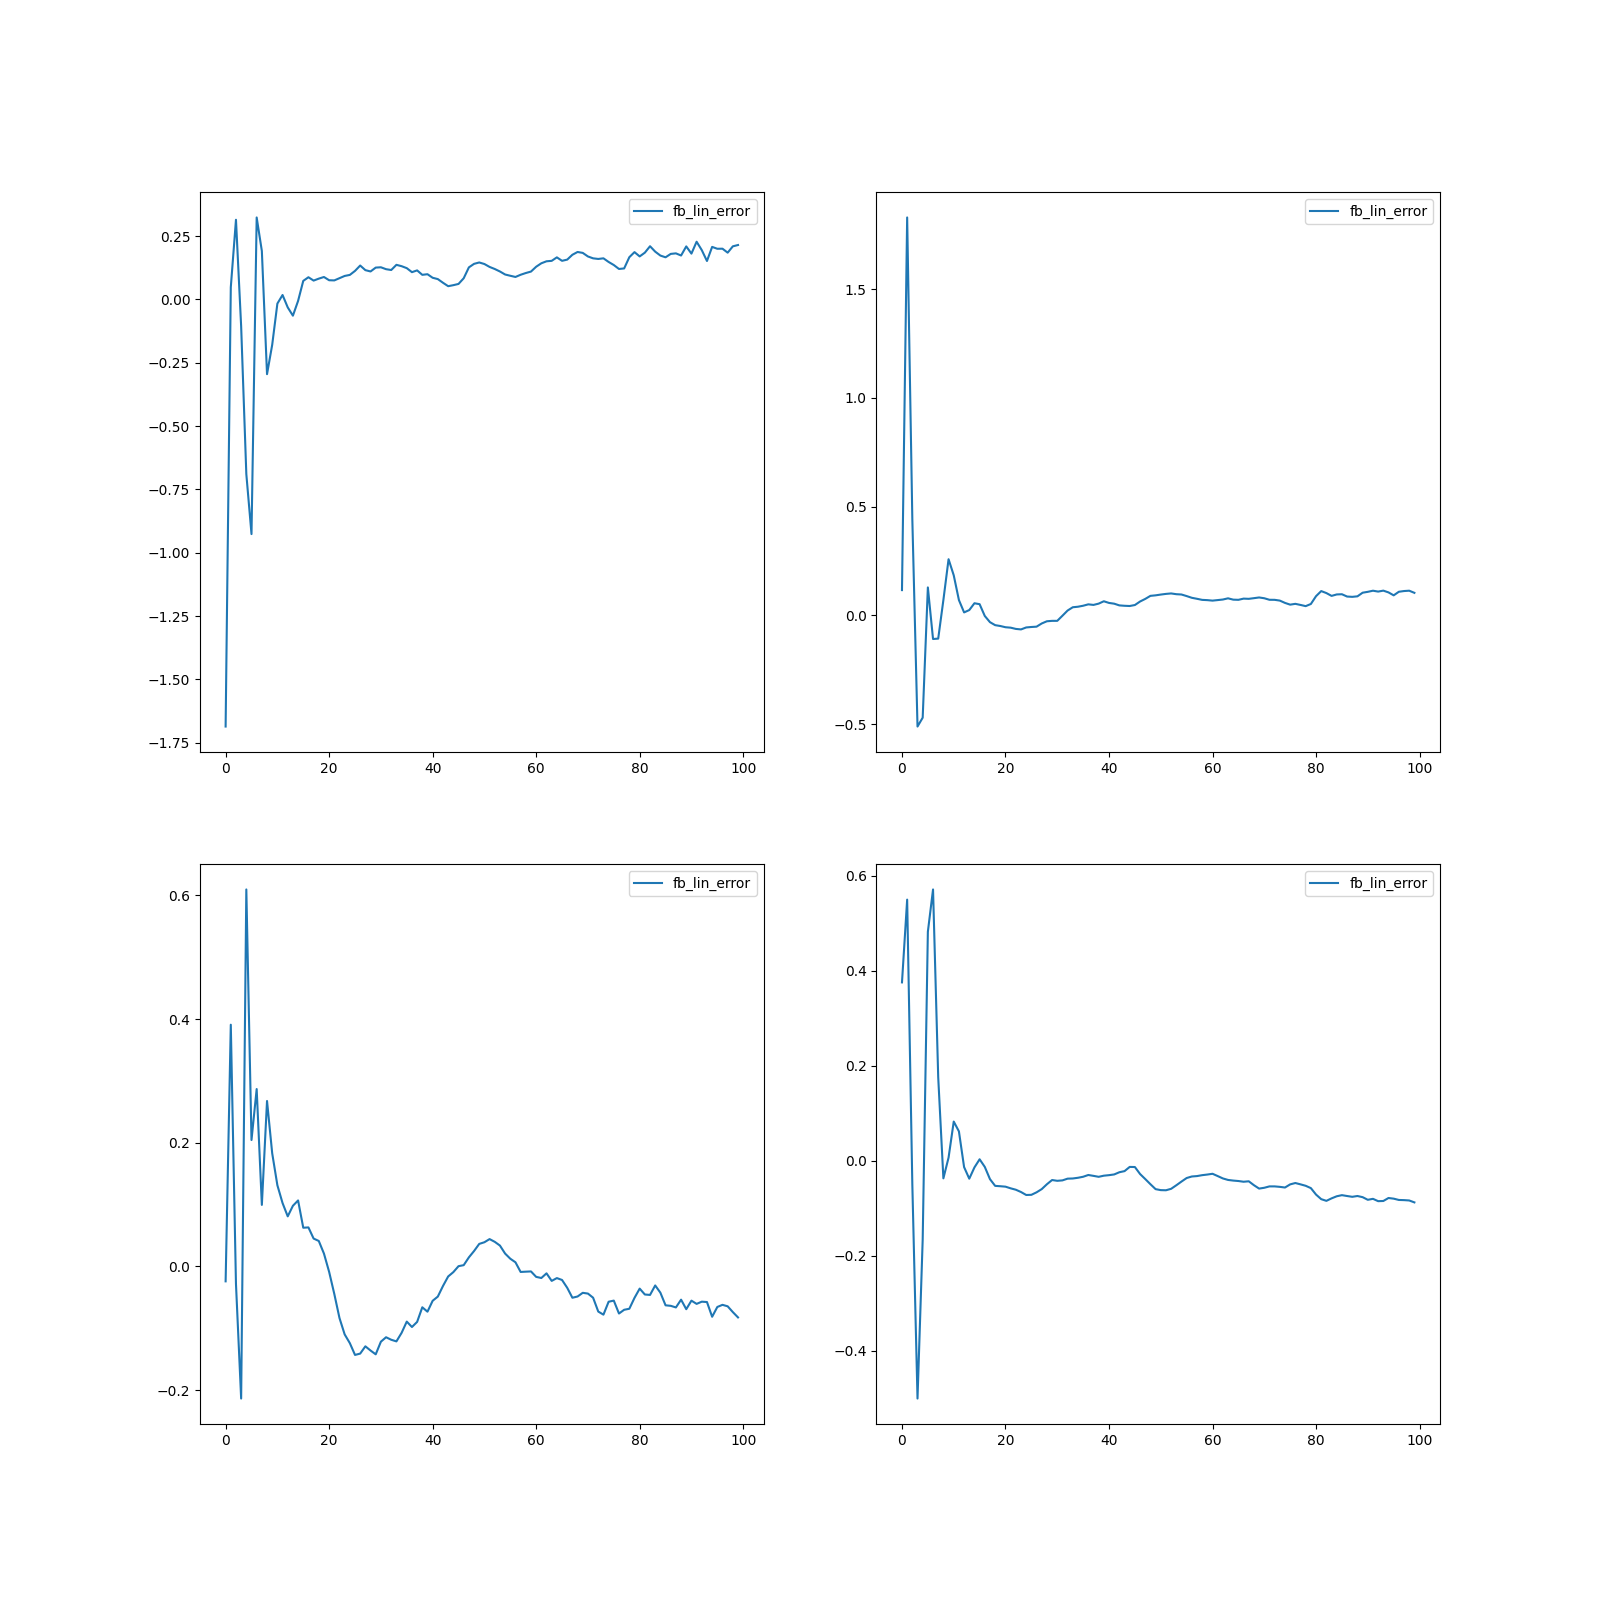
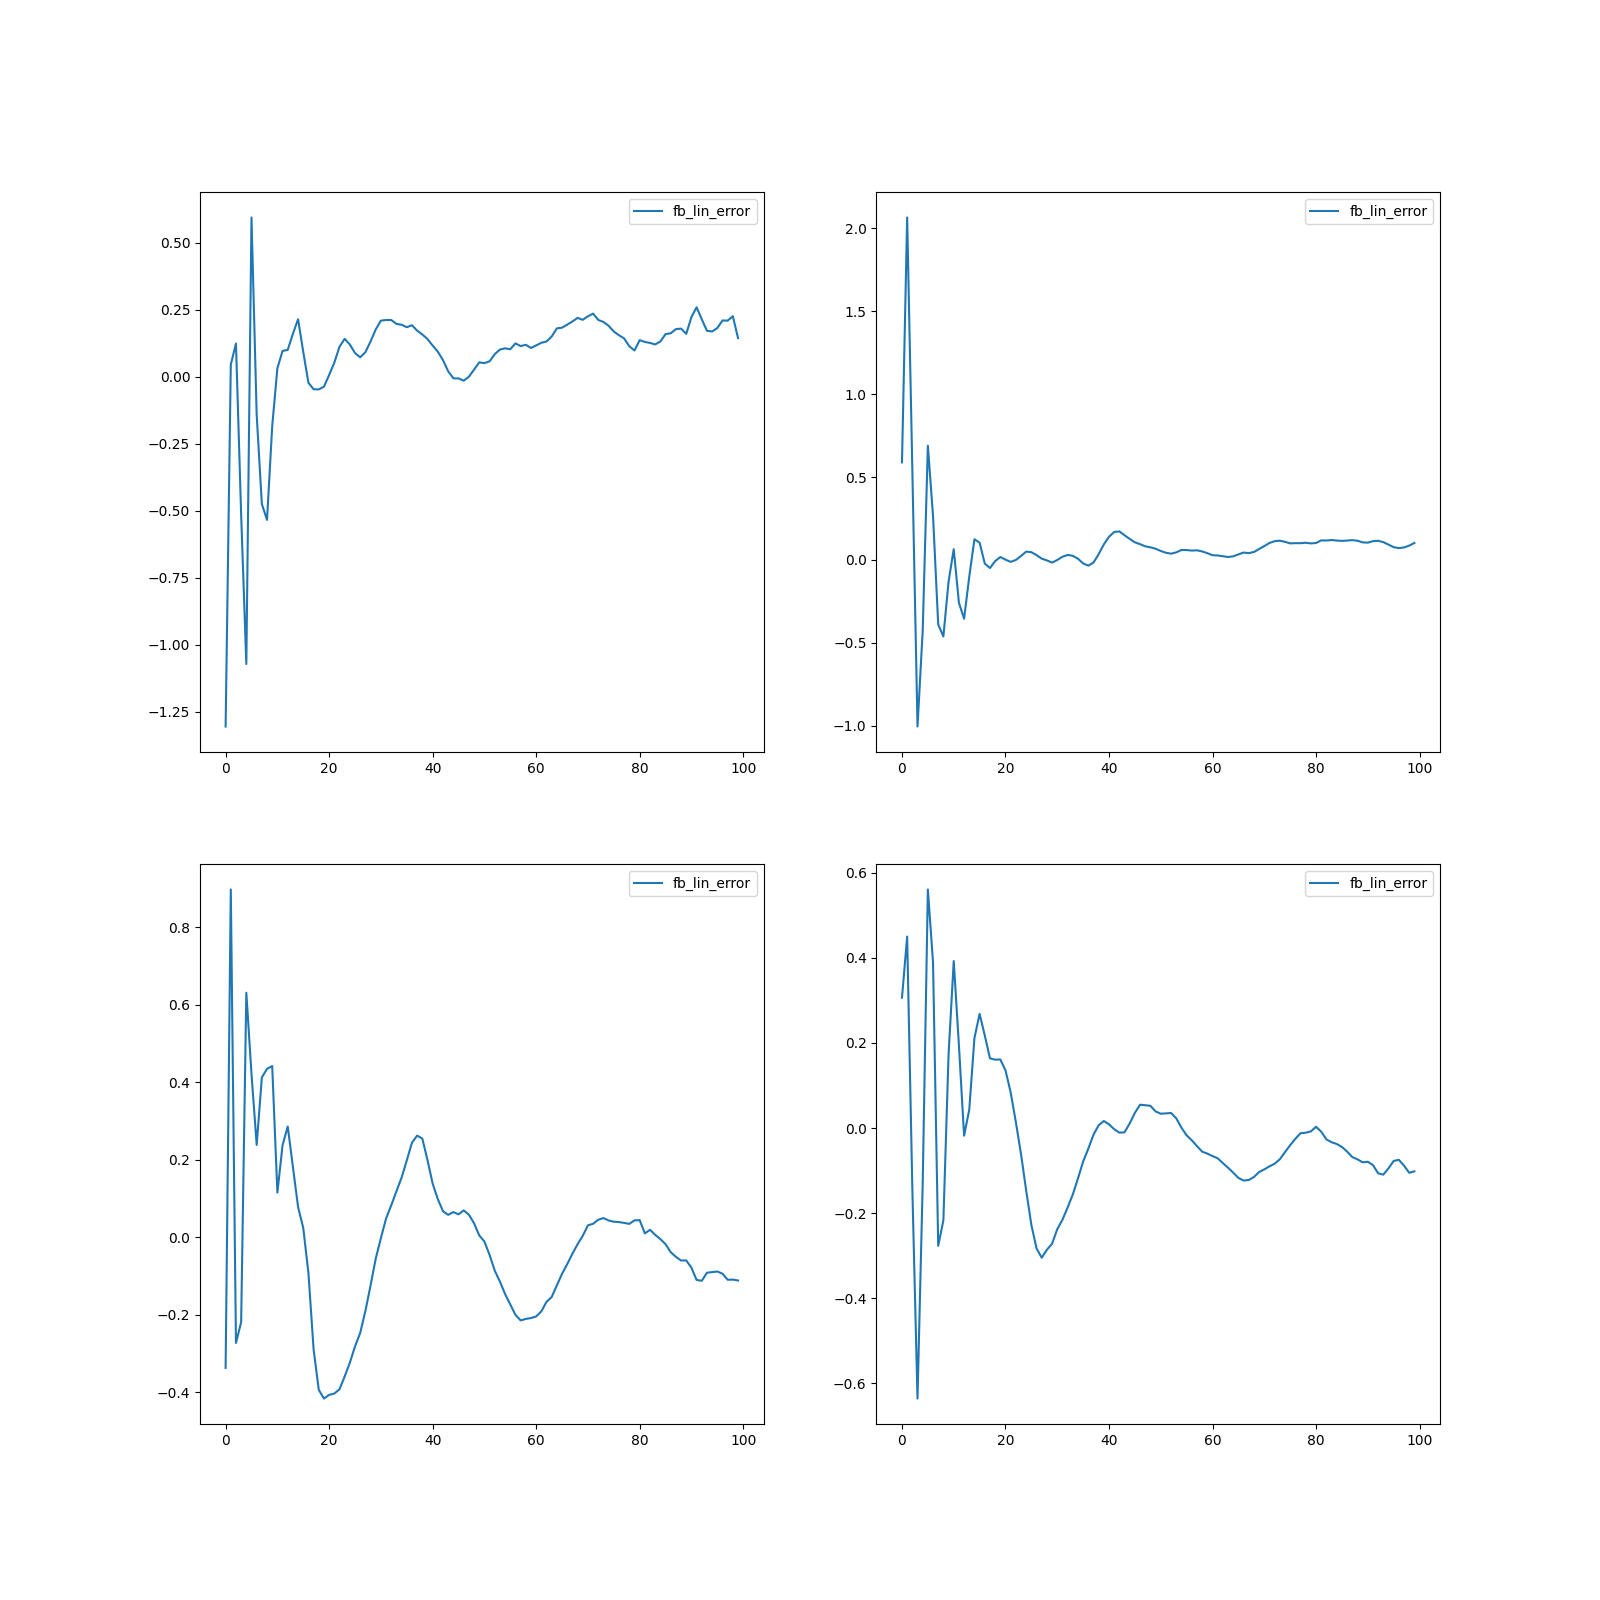
code tests

diff --git a/rl/train_only_rand_traj.py b/rl/train_only_rand_traj.py
@@ -34,8 +34,8 @@ from learning_table_tennis_from_scratch.rewards import JsonReward
 from basic_env.plotting import plot_values
 
 NUM_EVALS = 1
-TRAIN_MODEL = True
-# LOAD_MODEL = False
+TRAIN_MODEL = False
+LOAD_MODEL = False
 EPOCHS= 10 #100
 num_ep_training = 1 #40
 SEED = np.random.randint(10)
@@ -100,6 +100,7 @@ def eval_model(env, model, render = False, deterministic=True, gamma=0.0, num_ep
             
             # print(action)
             obs, r, done, logs = env.step(action)
+            r = env.get_original_reward()
             rewards.append(r)
             logs_list1.append(logs)
             # if done:
@@ -113,7 +114,7 @@ def eval_model(env, model, render = False, deterministic=True, gamma=0.0, num_ep
         all_rewards.append(sum_ep_reward)
 
     all_rewards = np.array(all_rewards)
-    return np.mean(all_rewards), np.std(all_rewards), all_rewards, logs_list2
+    return np.mean(all_rewards), np.std(all_rewards), all_rewards, logs_list2, rewards
 
 
 def unpack_logs(log_list):
@@ -244,24 +245,25 @@ model = PPO('MlpPolicy', env, verbose=0, gamma=GAMMA,
 #     eval_env.training=False
 #     eval_env.norm_reward = False
     
-# if LOAD_MODEL:
-#     #loads normalization constants
-#     # env = VecNormalize.load(stats_path, env) #load stats
-#     # env.training=False
-#     # env.norm_reward = False
+if LOAD_MODEL:
+    #loads normalization constants
+    env = VecNormalize.load(stats_path, env) #load stats
+    env.training=False
+    env.norm_reward = False
 
-#     # Load the agent
-#     model = PPO.load(save_dir + "ppo_panda_tracking_random", env=env, device=DEVICE)
+    # Load the agent
+    model = PPO.load(save_dir + "ppo_pam_single_traj", env=env, device=DEVICE)
 
 
 # %% 
 # Random Agent, before training
 print("Random Agent")#eval with random policy
-# avg_eval_rew, std_eval_rew = evaluate_policy(model, env, n_eval_episodes = NUM_EVALS, deterministic= True)
+
 # print("Average reward with random policy = ",avg_eval_rew)   
 
 ## Random agent manual eval
-avg_eval_rew, std_eval_rew, all_rewards, logs_list = eval_model(env, model, render=False, gamma=GAMMA, num_episodes = NUM_EVALS)
+avg_eval_rew, std_eval_rew, all_rewards, logs_list,rew = eval_model(env, model, render=False, gamma=GAMMA, num_episodes = NUM_EVALS)
+avg_eval_rew2, std_eval_rew2 = evaluate_policy(model, env, n_eval_episodes = NUM_EVALS, deterministic= True)
 
 pos_error =[]
 norm_ff_arr = []
@@ -282,7 +284,7 @@ for ev in range(NUM_EVALS):
     acc = np.diff(logs['joint_vel'],axis=0)/DT #i = i+1 - i             
     all_fb_lin_error = acc - logs['command'][1:]
     fb_lin_error_mean = np.sqrt(np.mean(all_fb_lin_error**2, axis=0))
-    fb_lin_mean_error = fb_lin_error_mean.mean()
+    fb_lin_mean_error = np.mean(np.linalg.norm(all_fb_lin_error, axis=0))
     fb_lin_arr.append(fb_lin_mean_error)
     print(f"FB Linearization error joint-wise : ", fb_lin_error_mean)
     print(f"FB RMSE1 (mean of jointwise FB error) = {fb_lin_error_mean.mean():.6f}")
@@ -301,10 +303,16 @@ pos_tracking_err = np.mean(pos_error)
 fb_lin_err = np.mean(fb_lin_arr)
 
 print("Rand "," . Mean Episode reward = ",avg_eval_rew," . Std dev = ", std_eval_rew)
+print("Rand eval func"," . Mean Episode reward = ",avg_eval_rew2," . Std dev = ", std_eval_rew2)
+
+
 
 # %% Training
 max_val_reward = -np.inf
 best_pos_error = np.inf
+
+
+
 best_acc_error = np.inf
 total_timesteps = num_ep_training*EPISODE_LENGTH
 plot_epoch = 2
@@ -377,18 +385,18 @@ if TRAIN_MODEL:
                     # "acc_tracking_error": np.mean(acc_error),
                     "norm_action":action_norm,
                     "fb_lin_error":fb_lin_err,
-                    # "traj1": pos_error[0],
-                    # "traj2":pos_error[1],
-                    # "traj3":pos_error[2],
-                    # "traj4":pos_error[3],
-                    # "traj5":pos_error[4],
+                    'err_joint0':joint_tracking_error[0],
+                    'err_joint1':joint_tracking_error[1],
+                    'err_joint2':joint_tracking_error[2],
+                    'err_joint3':joint_tracking_error[3],
+                    'fb_err_joint0':fb_lin_error_mean[0],
+                    'fb_err_joint1':fb_lin_error_mean[1],
+                    'fb_err_joint2':fb_lin_error_mean[2],
+                    'fb_err_joint3':fb_lin_error_mean[3],
                     'last_train_reward':last_training_rew,
                     'avg_eval_reward':avg_eval_rew,
                     'std_eval_reward':std_eval_rew,
-                    # 'avg_eval_reward':avg_eval_rew,
-                    # 'std_eval_reward':std_eval_rew,
-                    # "reward_term1":rew_term1,
-                    # "reward_torque_penalty":rew_torque_penalty
+
                     })
             
         if avg_eval_rew>max_val_reward:
